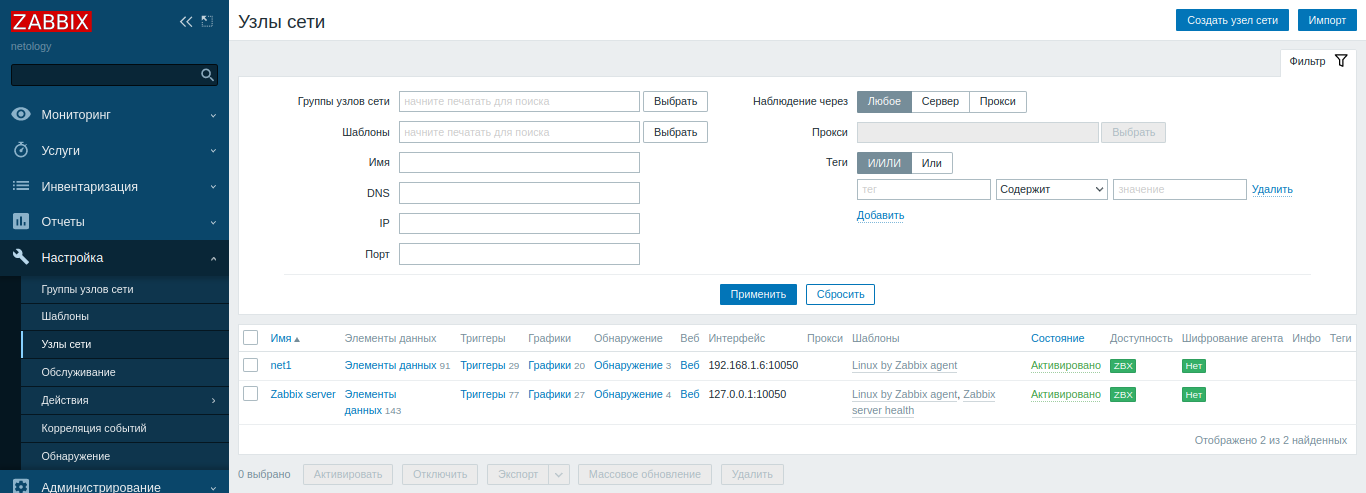
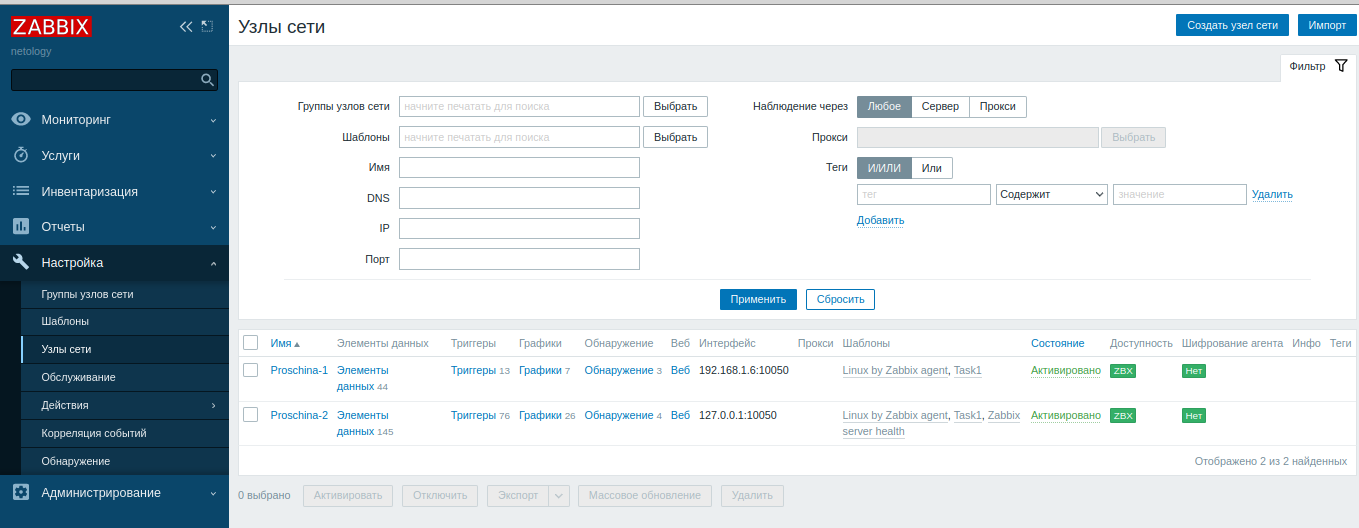
comment

diff --git a/README.md b/README.md
@@ -2,35 +2,26 @@
 
 ### Задание 1
 
-Команды для гита: 
+Шаблон с мониторингом CPU и RAM
 
-```
-git clone https://github.com/JulianP-P/sys-homework.git
-git checkout -b zabbix-part1
-git add .
-git commit -m "task 1"
-
-```
-
-`
-![Админка zabbix](https://github.com/JulianP-P/sys-homework/blob/zabbix-part1/img/img1.png)`
+![Шаблон](https://github.com/JulianP-P/sys-homework/blob/zabbix-part2/img/img1.png)
 
 
 ---
 
-### Задание 2
+### Задание 3
 
+Привязанные шаблоны к хостам
 
-Команды для гита:
+![Aгенты подключены к серверу](https://github.com/JulianP-P/sys-homework/blob/zabbix-part2/img/img2.png)
 
-```
-git add .
-git commit -m "task 2"
+---
 
-```
+### Задание 4
 
-`![Aгенты подключены к серверу](https://github.com/JulianP-P/sys-homework/blob/zabbix-part1/img/img2.png)`
-`![Логи zabbix agent](https://github.com/JulianP-P/sys-homework/blob/zabbix-part1/img/img3.png)`
-`![Latest data](https://github.com/JulianP-P/sys-homework/blob/zabbix-part1/img/img4.png)`
+Кастомный дашборд
+
+![Дашборд](https://github.com/JulianP-P/sys-homework/blob/zabbix-part1/img/img3.png)
+
 ---
 
